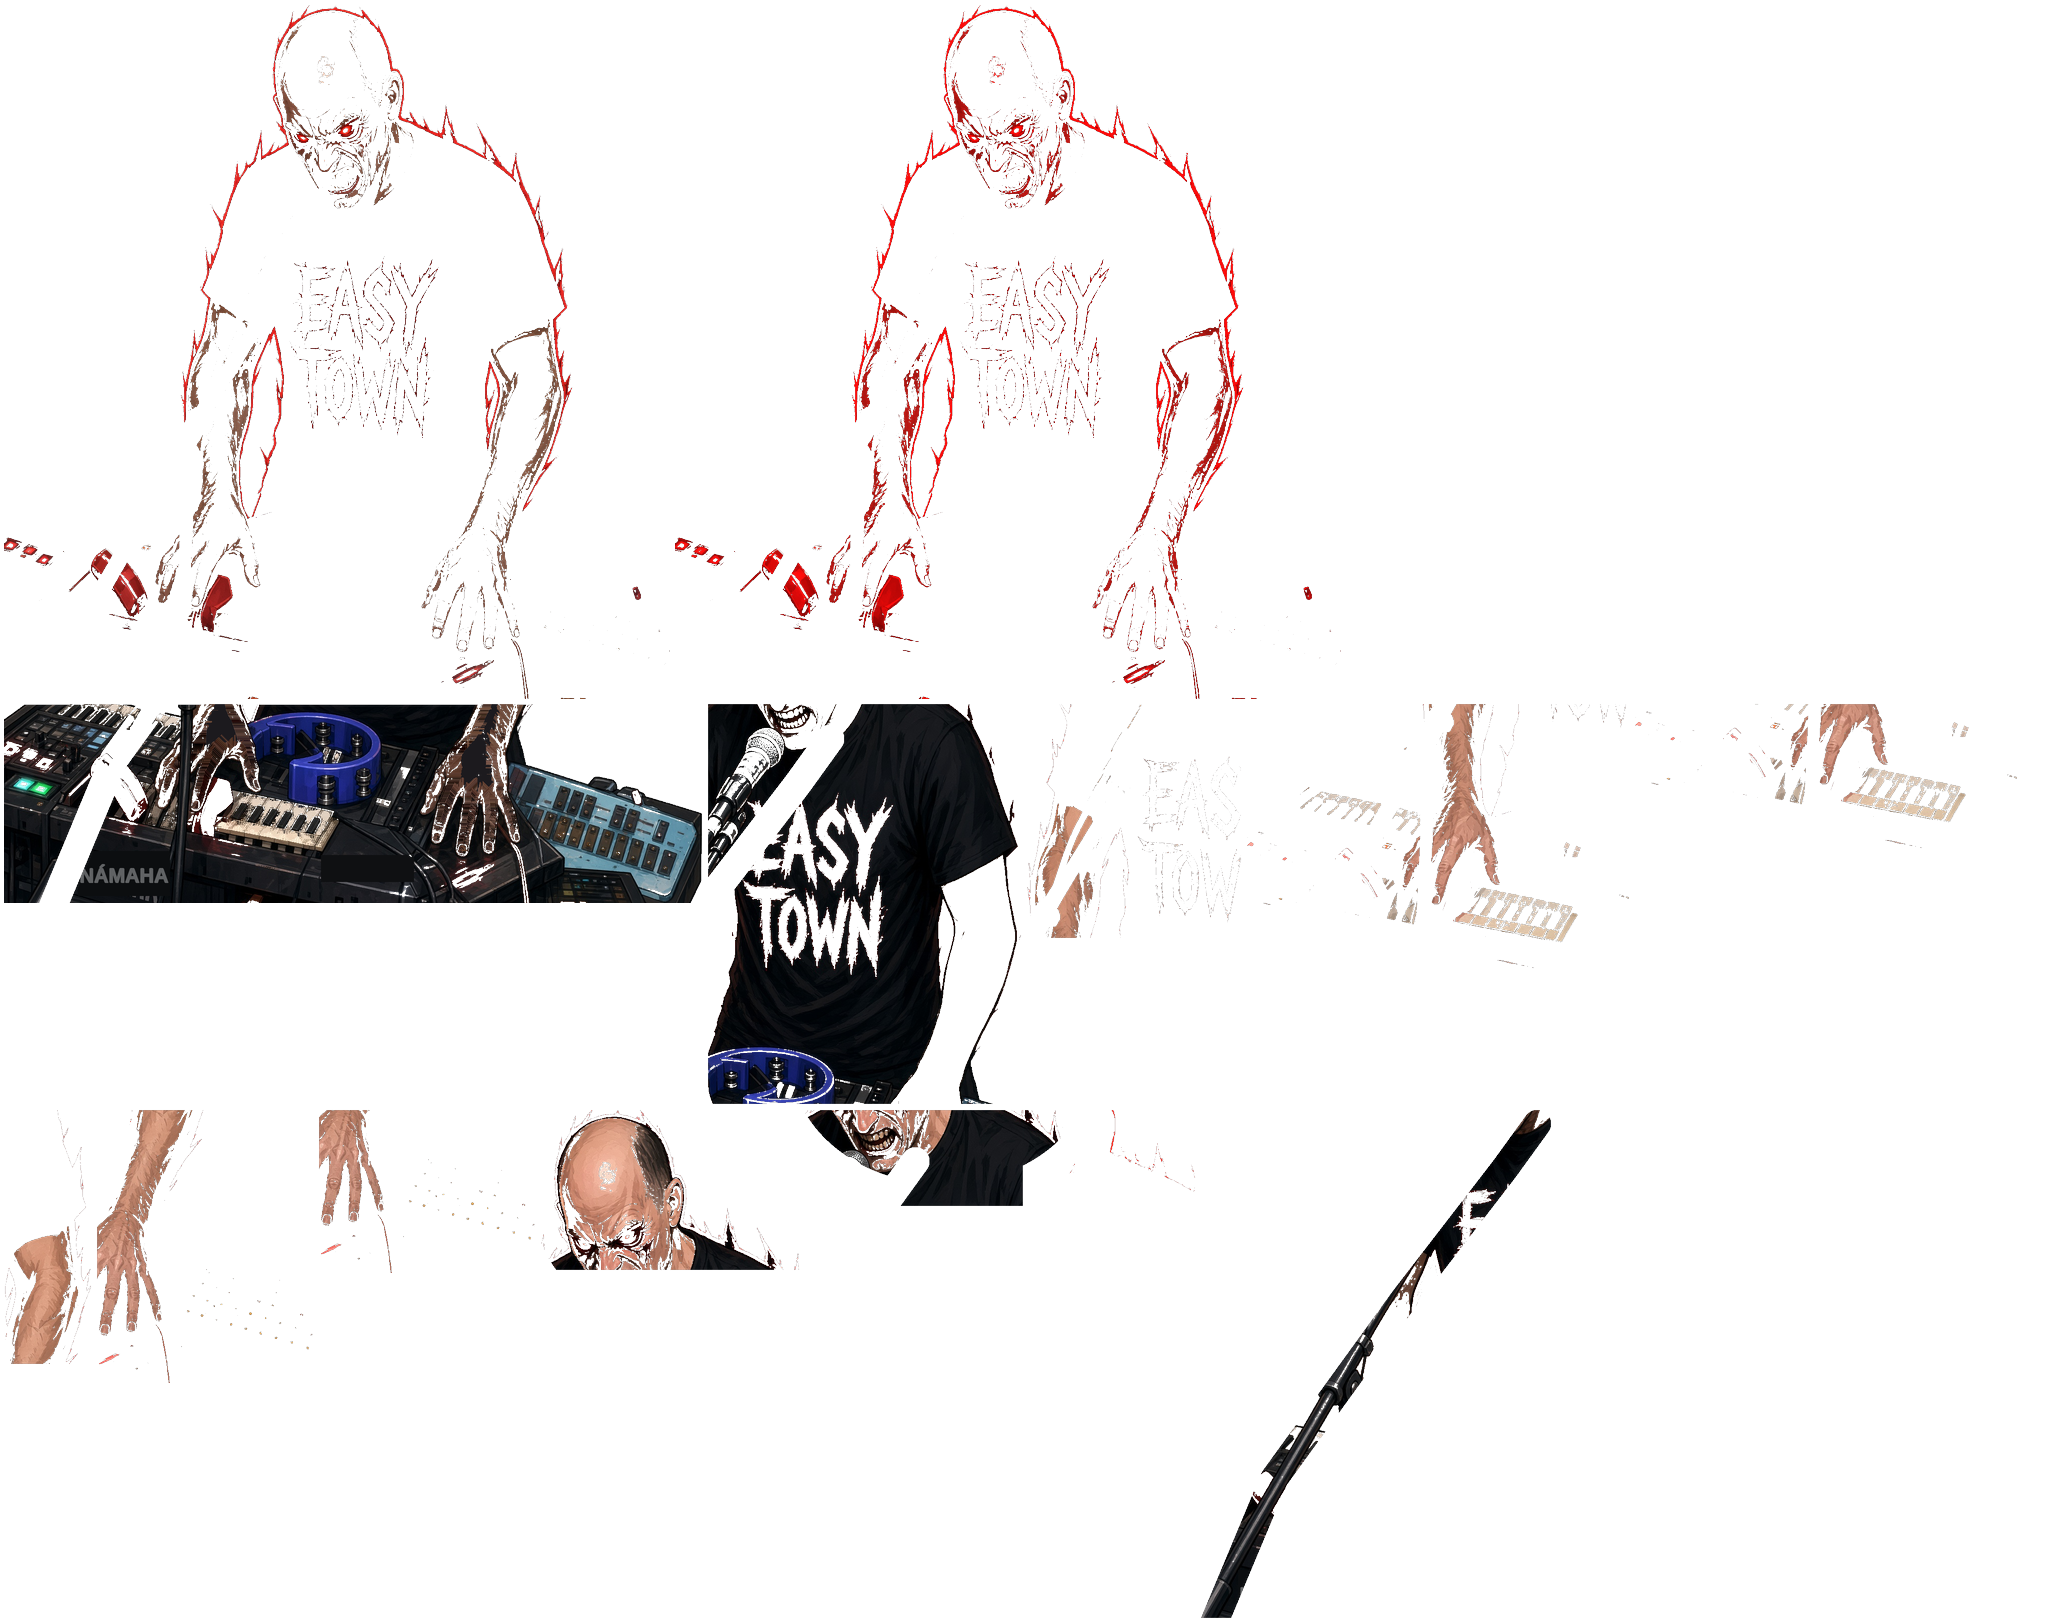
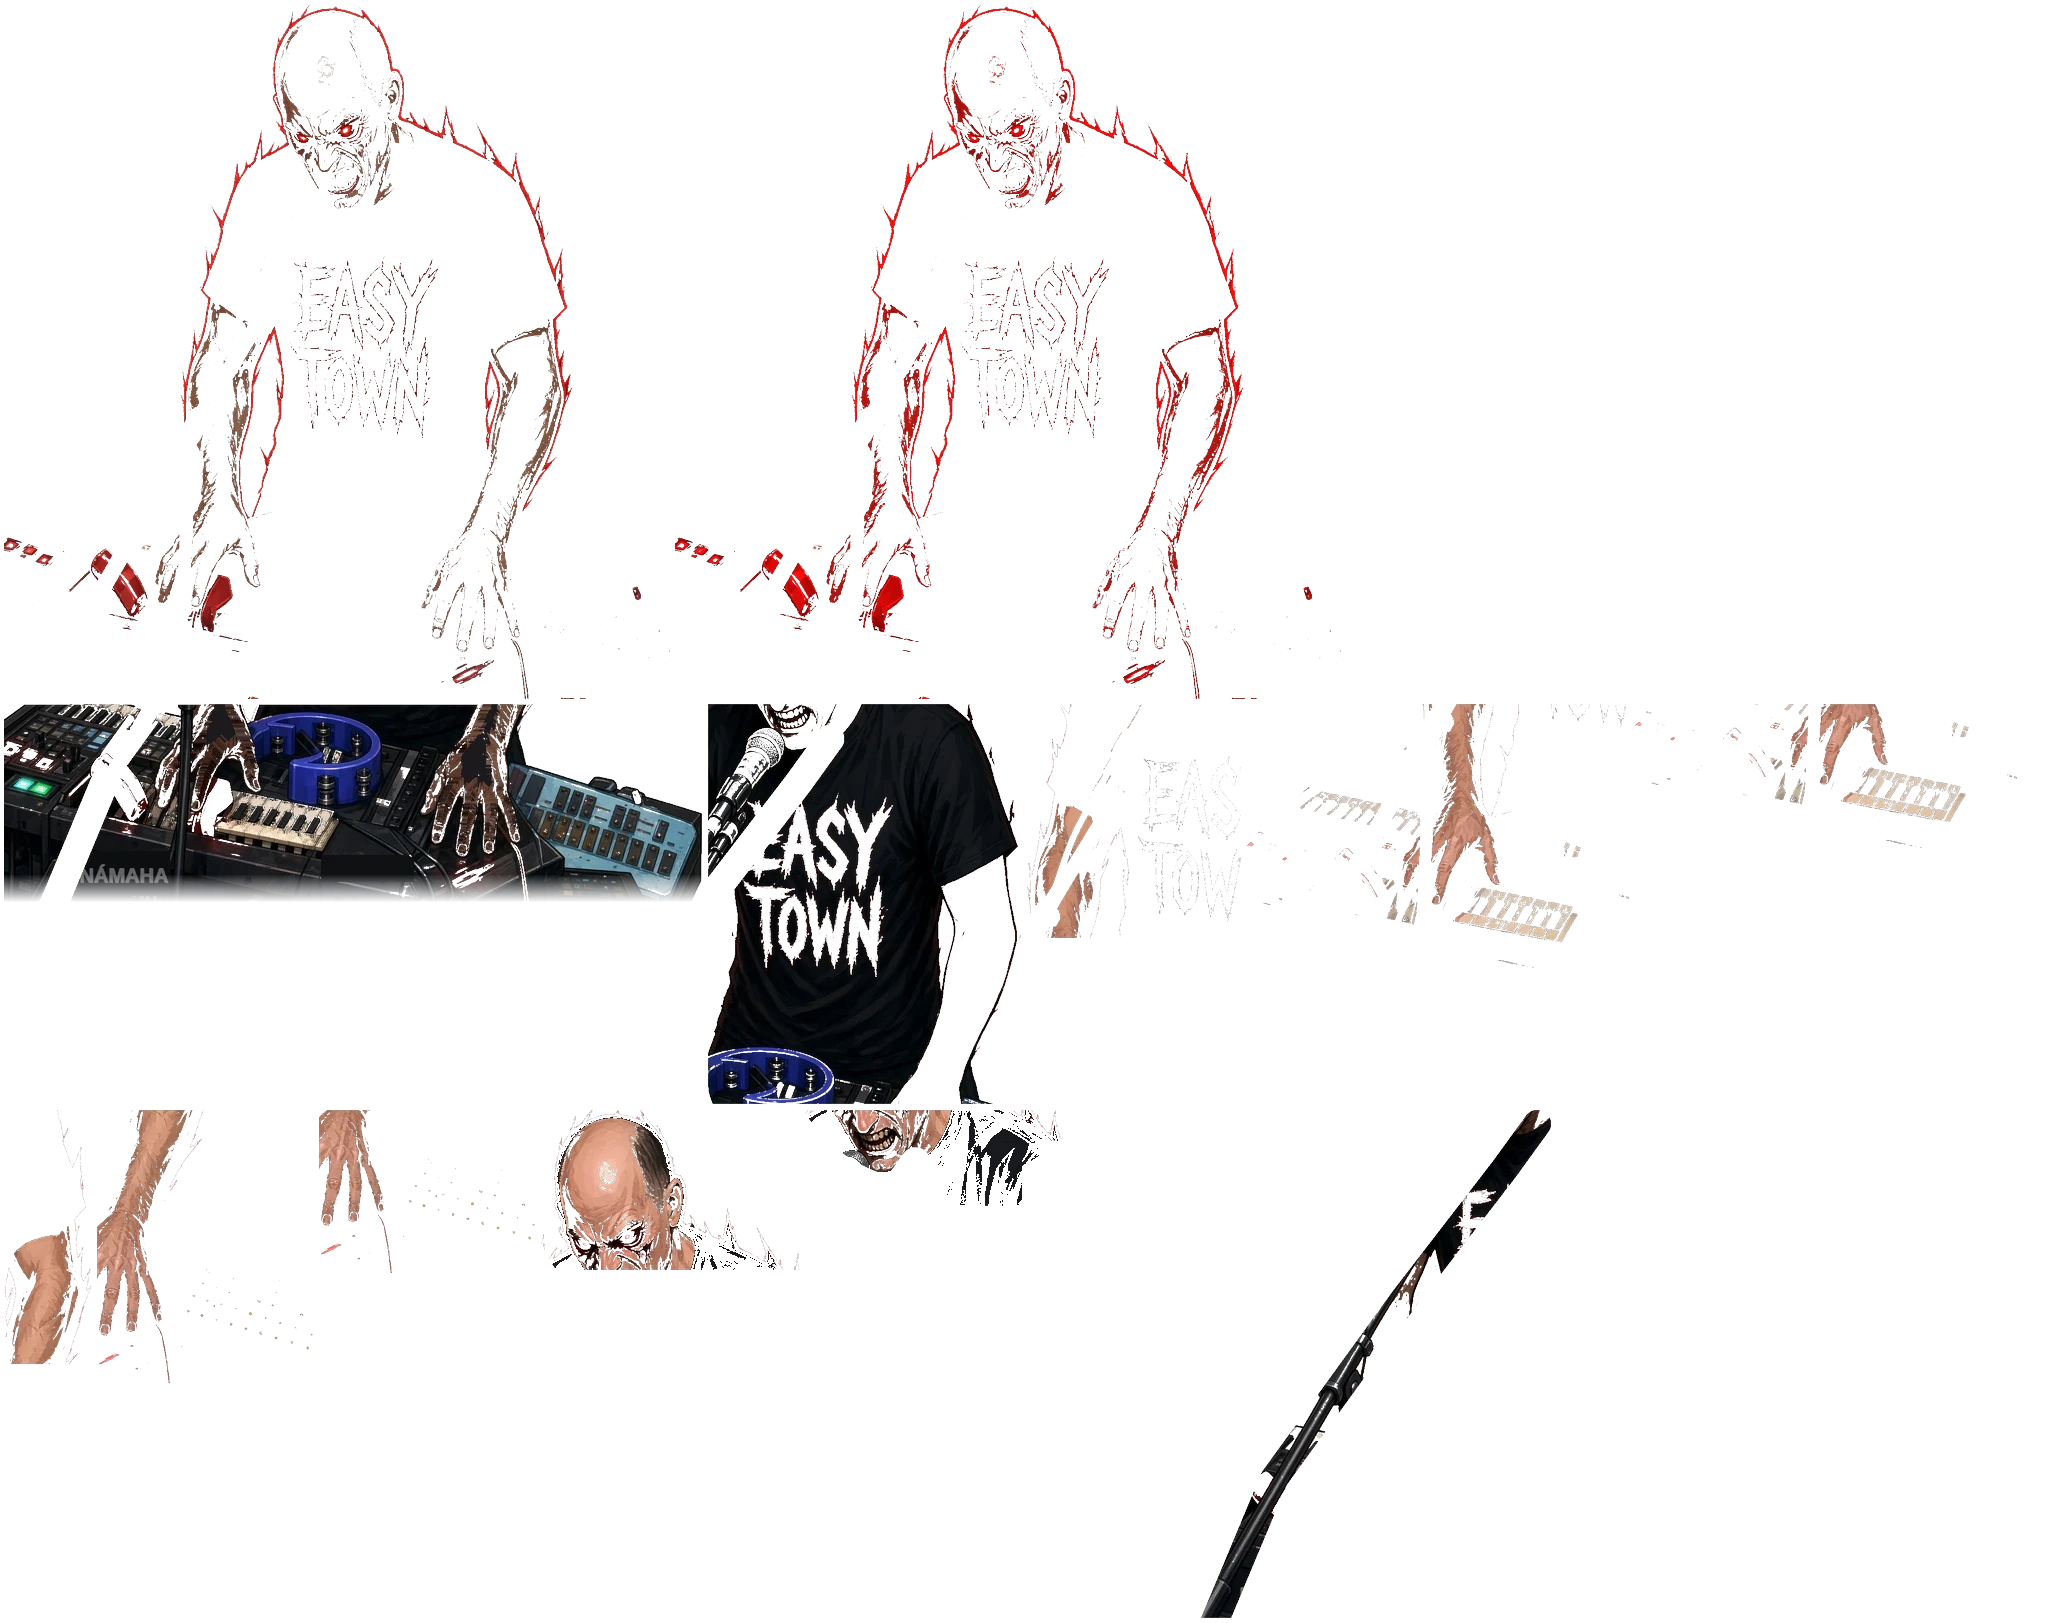
NOČNÁ SMENA: cut the clone boxes and fit the wide fight
Clones and the boss plate are real cut-outs. The bad eye crop no longer
covers his face. Phone landscape fills the enemy column, the Fold caps
him at about half the column, and his life stays inside the bar.

Changed region(s): [[0.0, 0.5237, 0.3438, 0.5545], [0.375, 0.6778, 0.5312, 0.7702], [0.3438, 0.7702, 0.375, 0.801]]

diff --git a/src/nocna/pixi/fight-stage.ts b/src/nocna/pixi/fight-stage.ts
@@ -70,7 +70,7 @@ function rungFor(dpr: number): number {
 }
 
 const DJ_STILL = ["aura", "auraHot", "desk", "mic", "torso", "armLU", "armLL", "armRU", "armRL"] as const;
-const DJ_LIVE = ["head", "jaw", "eyes", "handL", "handR"] as const;
+const DJ_LIVE = ["head", "jaw", "handL", "handR"] as const;
 
 function urls(): string[] {
   const syms = Object.values(SYM).map((def) => def.art);
@@ -676,12 +676,19 @@ export class FightStage {
       reelY = h * 0.22;
     }
     if (blast && split) {
-      const top = 108;
-      const footRoom = 118;
-      foeH = Math.max(90, h - top - footRoom);
-      foeY = top + foeH;
-      foeX = leftW * 0.48;
+      this.foeCell = Math.min(this.foeCell, Math.max(40, Math.floor((leftW - 36) / foeCount)));
+      const cell = this.foeCell;
+      const chipBottom = 72;
+      const footer = 8 + 36 + 8 + (cell + 18);
+      const bandTop = h - footer;
+      const feetLimit = bandTop - 10;
+      const room = Math.max(110, feetLimit - chipBottom);
+      foeH = Math.min(room, h * 0.55);
+      const extra = Math.max(0, room - foeH);
+      foeY = chipBottom + extra / 2 + foeH;
+      foeX = leftW * 0.5;
       reelY = 28;
+      this.bandY = bandTop;
     } else if (blast) {
       const top = 92;
       const wanted = h * 0.3;
@@ -691,11 +698,11 @@ export class FightStage {
     }
     this.foeX = foeX;
     this.foeY = foeY;
-    this.bandY = foeY + (blast && split ? 18 : 8);
+    if (!(blast && split)) this.bandY = foeY + 8;
     this.rowCenter = blast && split ? leftW * 0.48 : w / 2;
     this.rowLeft = blast && split ? 8 : 8;
     this.rowRight = blast && split ? leftW - 10 : w - 8;
-    if (blast && split) this.foeCell = Math.min(this.foeCell, Math.max(34, Math.floor((leftW - 36) / foeCount)));
+    if (blast && split) this.foeCell = Math.min(this.foeCell, Math.max(40, Math.floor((leftW - 36) / foeCount)));
     if (this.rig?.doc) {
       const sk = this.rig.doc.skeleton.height || 512;
       const sc = (foeH * (blast ? 1 : 0.74)) / sk;
@@ -769,6 +776,7 @@ export class FightStage {
     const trayH = 46;
     const trayX = blast && split ? rightX + 4 : (w - trayW) / 2;
     const trayY = blast && split ? Math.min(gaugeTop + plateH + 4, by - trayH - 6) : Math.max(gaugeTop + plateH + 6, by - trayH - 8);
+    this.tray.view.visible = !(blast && split);
     this.tray.place(trayX, trayY, trayW, trayH);
     this.tray.setTexture(this.coinIcon.texture);
     this.tray.physics = this.quality.tier === "high" && !this.reduced;
@@ -997,7 +1005,9 @@ export class FightStage {
       ePlateW = this.eBarW + 56;
     }
     const underFoe = this.bandY + this.foeCell + 6;
-    const ePlateY = foeX < w * 0.4 ? underFoe : Math.max(inset + 8, Math.min(underFoe, plateY - 40));
+    const ePlateH = 32;
+    let ePlateY = foeX < w * 0.4 ? underFoe : Math.max(inset + 8, Math.min(underFoe, plateY - 40));
+    ePlateY = Math.max(8, Math.min(ePlateY, h - ePlateH - 6));
     this.ePlateX = ePlateX;
     this.ePlateY = ePlateY;
     this.chargeFill.position.set(ePlateX + 10, ePlateY + 28);
@@ -1012,7 +1022,8 @@ export class FightStage {
     this.hpGhost.position.set(barX, plateY + 12);
     this.hpFill.position.set(barX, plateY + 12);
     this.shFill.position.set(barX, plateY + 28);
-    this.ehpFill.position.set(ePlateX + 28, ePlateY + 12);
+    this.ehpFill.position.set(ePlateX + 26, ePlateY + 12);
+    this.eBarW = Math.max(20, ePlateW - 26 - 48);
     this.hpGhost.scale.y = 10;
     this.hpFill.scale.y = 10;
     this.shFill.scale.y = 6;
@@ -1138,7 +1149,7 @@ export class FightStage {
     const prevColor = bg.color;
     bg.alpha = 0;
     bg.color = 0x000000;
-    this.app.renderer.render({ container: rig, target: this.djPlateRT, clear: true });
+    this.app.renderer.render({ container: rig, target: this.djPlateRT, clear: true, clearColor: [0, 0, 0, 0] });
     bg.alpha = prevAlpha;
     bg.color = prevColor;
     parent?.addChildAt(rig, index);
@@ -1223,11 +1234,25 @@ export class FightStage {
     const g = c.getContext("2d");
     if (!g) return img.src;
     g.drawImage(img, 0, 0);
-    g.globalCompositeOperation = "multiply";
-    g.fillStyle = `rgb(${(hex >> 16) & 255},${(hex >> 8) & 255},${hex & 255})`;
-    g.fillRect(0, 0, c.width, c.height);
-    g.globalCompositeOperation = "destination-in";
-    g.drawImage(img, 0, 0);
+    const data = g.getImageData(0, 0, c.width, c.height);
+    const px = data.data;
+    const tr = (hex >> 16) & 255;
+    const tg = (hex >> 8) & 255;
+    const tb = hex & 255;
+    for (let i = 0; i < px.length; i += 4) {
+      const a = px[i + 3] ?? 0;
+      if (a < 32) {
+        px[i] = 0;
+        px[i + 1] = 0;
+        px[i + 2] = 0;
+        px[i + 3] = 0;
+        continue;
+      }
+      px[i] = ((px[i] ?? 0) * tr) / 255;
+      px[i + 1] = ((px[i + 1] ?? 0) * tg) / 255;
+      px[i + 2] = ((px[i + 2] ?? 0) * tb) / 255;
+    }
+    g.putImageData(data, 0, 0);
     return c.toDataURL("image/png");
   }
 

diff --git a/src/nocna/rig/runtime.ts b/src/nocna/rig/runtime.ts
@@ -104,7 +104,7 @@ export class Rig extends Container {
 
   showAllSlots() {
     for (const [name, node] of this.slotNodes) {
-      node.visible = name !== "teeBlack" && name !== "auraHot";
+      node.visible = name !== "teeBlack" && name !== "auraHot" && name !== "eyes";
     }
     this.setPhase(this.phaseOn);
   }
@@ -289,7 +289,7 @@ export class Rig extends Container {
       // Slot order, not tree order. A torso sprite added after its children
       // would otherwise cover the head.
       wrap.zIndex = index;
-      wrap.visible = slot.name !== "teeBlack" && slot.name !== "auraHot";
+      wrap.visible = slot.name !== "teeBlack" && slot.name !== "auraHot" && slot.name !== "eyes";
       this.slotNodes.set(slot.name, wrap);
       bone.view.addChild(wrap);
     });

diff --git a/src/components/slot/nocna/NocnaSmena.tsx b/src/components/slot/nocna/NocnaSmena.tsx
@@ -310,7 +310,7 @@ export function NocnaSmena(props: Props) {
           </button>
         </div>
       ) : null}
-      {showFight ? (
+      {showFight && v.run.super > 0 ? (
         <div className="ns-meter" aria-label="Výboj">
           <i style={{ width: `${Math.min(100, v.run.super)}%` }} />
           <span>VÝBOJ {v.run.super}{v.run.momentum > 0 ? ` · SÉRIA +${v.run.momentum}` : ""}</span>

diff --git a/src/components/slot/nocna/nocna.css b/src/components/slot/nocna/nocna.css
@@ -427,10 +427,11 @@
   position: absolute;
   inset: 0;
   text-align: center;
-  color: #1a1204;
+  color: #fff6d8;
   font-family: "Oswald", sans-serif;
   font-size: 0.68rem;
   line-height: 18px;
+  text-shadow: 0 1px 0 #1a1204;
 }
 .ns-go:active { transform: scale(0.96); }
 .ns-go:disabled { opacity: 0.4; }

diff --git a/scripts/pack-martin-dj.py b/scripts/pack-martin-dj.py
@@ -387,12 +387,13 @@ def silhouette(im: Image.Image) -> Image.Image:
     for y in range(h):
         for x in range(w):
             r, g, b, a = px[x, y]
-            if a < 20:
+            if a < 100:
+                px[x, y] = (0, 0, 0, 0)
                 continue
             if r > g + 30 and r > 70:
-                px[x, y] = (120, 24, 28, min(255, a))
+                px[x, y] = (140, 28, 32, a)
             else:
-                px[x, y] = (18, 10, 14, min(220, int(a * 0.92)))
+                px[x, y] = (16, 8, 12, a)
     src = src.crop((420, 10, 1180, 1180))
     box = src.getbbox()
     if box:
